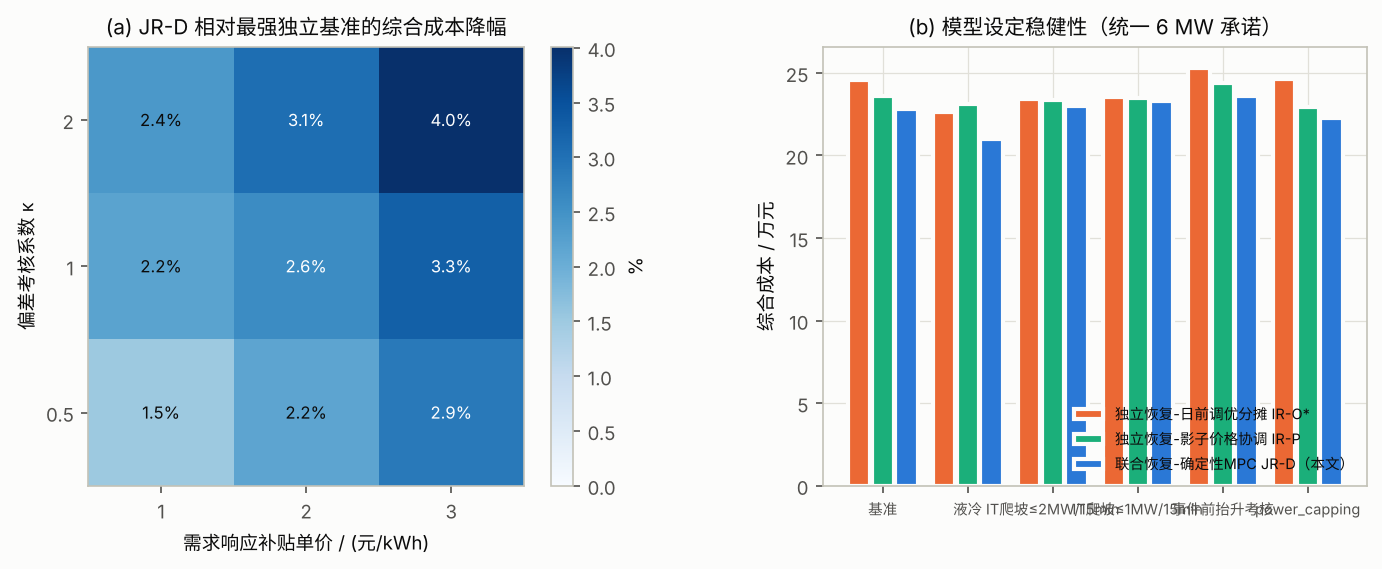
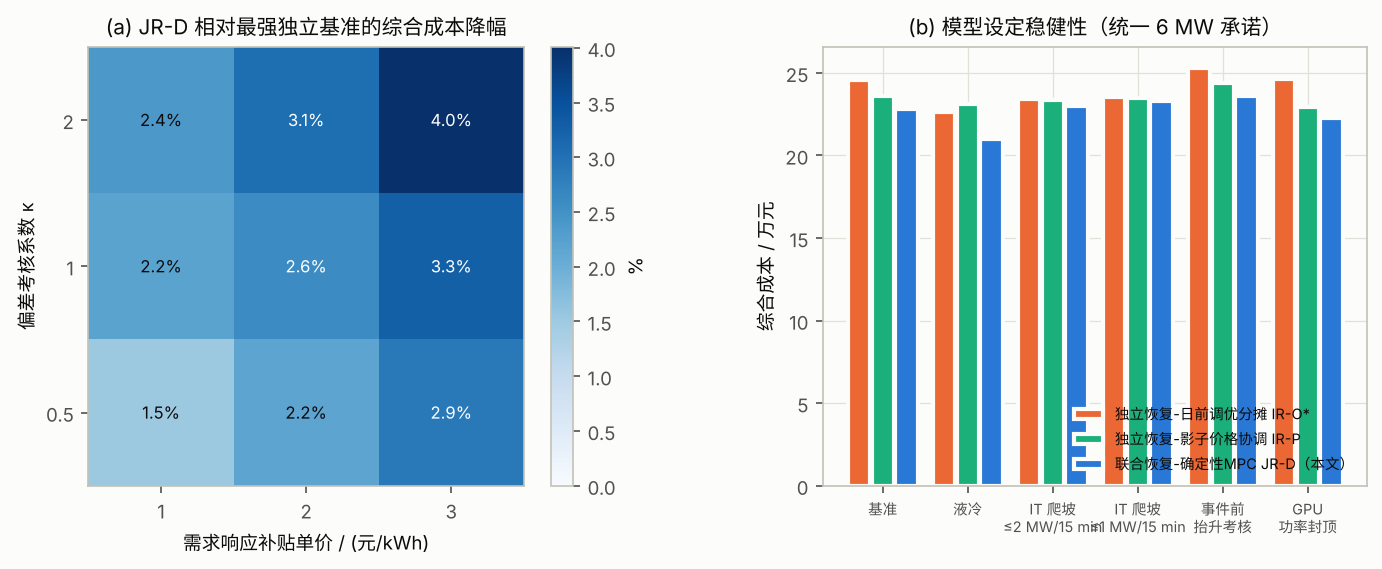
Paper audit: cite every reference and renumber in order of first citation, reference every figure in the text, embed Fig. 1, update Appendix B (6f done) and the contributions; Fig. 13 tick labels
Claude-Session: https://claude.ai/code/session_0173EWkv7nAjgEuhNTshh9Dg

Changed region(s): [[0.7156, 0.8664, 0.9957, 0.9561]]

diff --git a/tools/plot_results.py b/tools/plot_results.py
@@ -122,6 +122,8 @@ ZH2EN = {
     "JR 线性规划": "JR LP", "IR 线性规划": "IR LP", "滞后上界 L = ": "Lag bound L = ", "事件 B 可交付削减 / MW": "Deliverable reduction in event B / MW",
     "需求响应补贴单价 / (元/kWh)": "DR payment rate / (CNY/kWh)", "偏差考核系数 κ": "Shortfall coefficient κ", "基准": "Base", "液冷": "Liquid cooling",
     "IT爬坡≤2MW/15min": "IT ramp ≤ 2 MW/15 min", "IT爬坡≤1MW/15min": "IT ramp ≤ 1 MW/15 min", "事件前抬升考核": "Pre-event load-up charge",
+    "IT 爬坡\n≤2 MW/15 min": "IT ramp\n≤2 MW/15 min", "IT 爬坡\n≤1 MW/15 min": "IT ramp\n≤1 MW/15 min", "事件前\n抬升考核": "Pre-event\nload-up charge",
+    "GPU\n功率封顶": "GPU\npower capping",
     "(b) 模型设定稳健性（统一 6 MW 承诺）": "(b) Robustness to model settings (uniform 6 MW)",
     "电储能能量容量 E / MWh（功率 6 MW）": "Battery energy capacity E / MWh (power 6 MW)",
     "并网裕度 γ（并网上限 = γ × 典型日峰值）": "Connection margin γ (limit = γ × typical-day peak)",
@@ -550,7 +552,8 @@ def fig_robust():
     if r is not None:
         r["cfg"] = r.label.str.split("|").str[0]; r["nm"] = r.label.str.split("|").str[1]
         cfgs = list(dict.fromkeys(r.cfg)); x = np.arange(len(cfgs)); w = 0.26
-        lab = {"base": "基准", "liquid_cooling": "液冷", "it_ramp_2MW": "IT爬坡≤2MW/15min", "it_ramp_1MW": "IT爬坡≤1MW/15min", "preload_charge": "事件前抬升考核"}
+        lab = {"base": "基准", "liquid_cooling": "液冷", "it_ramp_2MW": "IT 爬坡\n≤2 MW/15 min", "it_ramp_1MW": "IT 爬坡\n≤1 MW/15 min",
+               "preload_charge": "事件前\n抬升考核", "power_capping": "GPU\n功率封顶"}
         for i, nm in enumerate(["IR-O*", "IR-P", "JR-D"]):
             v = [float(r[(r.cfg == c) & (r.nm == nm)].net_cost_adj.iloc[0]) / 1e4 for c in cfgs]
             ax[1].bar(x + (i - 1) * (w + 0.02), v, w, color=C[nm], label=NAME[nm], edgecolor="#fcfcfb", linewidth=2)

diff --git a/docs/修订稿草稿/3_第8节_参考文献_附录A.md b/docs/修订稿草稿/3_第8节_参考文献_附录A.md
@@ -2,7 +2,7 @@
 
 * **流体任务模型与刚性作业：** 基准模型把作业视为可任意分割的流体，作业级仿真（6.13 节）表明它对刚性长作业的补算过于乐观。本文加入的刚性补算约束 $y\le a/\Delta t+B/\tau_c$ 是一阶近似：假设暂停在作业间随机分配，没有表示“结束的延迟作业的尾巴”在名义负荷下降时提供的补算，因此流体记账会报告并不存在的逾期，刚性变体只能以作业级结果为准。更精确的做法是在规划中直接调度作业（混合整数），或用剩余运行时间分布构造补算核，留待后续工作。
 * **作业级执行器：** 采用松弛度优先 + 按类目标回填的启发式，不是最优的作业级调度；作业由轨迹的“卡数—时长”分布合成，没有作业间依赖、网络拓扑与通信开销。检查点与重启开销取文献范围内的典型值，并做了“无/基准/慢/仅周期检查点”四种敏感性。
-* **负载轨迹：** PAI 为 2020 年轨迹，Acme 为单一机构 2023 年的大模型开发轨迹（Hu 等，NSDI 2024[36]）。前沿规模的预训练作业可达数千卡，实验 20 只把作业卡数放大到 2–4 倍做了检验。秒级、迭代尺度的功率摆动（Choukse 等[25]）不在 15 min 调度的范围内。
+* **负载轨迹：** PAI 为 2020 年轨迹，Acme 为单一机构 2023 年的大模型开发轨迹（Hu 等，NSDI 2024[39]）。前沿规模的预训练作业可达数千卡，实验 20 只把作业卡数放大到 2–4 倍做了检验。秒级、迭代尺度的功率摆动（Choukse 等[14]）不在 15 min 调度的范围内。
 * **反弹考核：** 江苏细则无此项，本文作为政策参数处理并给出扫描结果；需量电费分析表明现行两部制电价几乎不约束晚间反弹。
 * **事件不确定性：** 只建模了“末次事件是否被调用”；事件时刻与持续时间的不确定性、以及“就绪储备”类产品设计留待后续工作。
 * **场景数较少且确定性选取：** 日内 5 个、日前分布鲁棒 10 个历史联合场景，便于 MATLAB/Octave 结果一致。实验 23 用 K-means 从 280 种组合中选 5–20 个场景、并检验了季节漂移，样本外成本几乎不变（≤0.35%）。模糊集只在这些场景的概率上取（ℓ1 球），没有覆盖场景之外的分布；可改为 Wasserstein 球。
@@ -20,49 +20,49 @@
 [1] IEA. Energy and AI[R]. Paris: International Energy Agency, 2025.
 [2] Shehabi A, Smith S J, Hubbard A, et al. 2024 United States Data Center Energy Usage Report[R]. Berkeley: Lawrence Berkeley National Laboratory, 2024.
 [3] 国家发展改革委, 工业和信息化部, 国家能源局, 国家数据局. 数据中心绿色低碳发展专项行动计划[Z]. 2024.
-[4] 国家发展改革委等. 电力需求侧管理办法（2023 年版）[Z]. 2023.
-[5] 江苏省发展和改革委员会. 江苏省电力需求响应实施细则[Z]. 2024（2024 年 7 月 14 日起施行）.
-[6] Norris T H, Profeta T, Patiño-Echeverri D, Cowie-Haskell A. Rethinking Load Growth: Assessing the Potential for Integration of Large Flexible Loads in US Power Systems[R]. Durham: Nicholas Institute, Duke University, 2025.
-[7] Colangelo P, Coskun A K, Megrue J, et al. Turning AI Data Centers into Grid-Interactive Assets: Results from a Field Demonstration in Phoenix, Arizona[J]. arXiv:2507.00909, 2025.
-[8] Google. Demand response agreements with Indiana Michigan Power and the Tennessee Valley Authority targeting machine-learning workloads[EB/OL]. 2025-08-04.
-[9] Liu Z, Wierman A, Chen Y, Razon B, Chen N. Data center demand response: Avoiding the coincident peak via workload shifting and local generation[J]. Performance Evaluation, 2013, 70(10): 770-791.
-[10] Wierman A, Liu Z, Liu I, Mohsenian-Rad H. Opportunities and challenges for data center demand response[C]. IGCC, 2014.
-[11] Chen M, Gao C, Song M, et al. Internet data centers participating in demand response: A comprehensive review[J]. Renewable and Sustainable Energy Reviews, 2020, 117: 109466.
-[12] Han O, Ding T, Yang M, et al. A novel 4-level joint optimal dispatch for demand response of data centers with district autonomy realization[J]. Applied Energy, 2024, 358: 122590.
-[13] Radovanović A, Koningstein R, Schneider I, et al. Carbon-aware computing for datacenters[J]. IEEE Transactions on Power Systems, 2023.
-[14] 林嘉瑜, 韩俊涛, 王永真, 等. 计及㶲效率的低碳数据中心算力综合能源系统规划及运行优化[J]. 上海交通大学学报, 2025, 59(9): 1327-1337.
-[15] 范宏, 陈舒阳, 罗昊, 等. 考虑冷热电多能互补与负载时空可调特性的数据中心优化运行策略[J]. 南方电网技术, 2026, 20(5): 28-36.
-[16] Weng Q, Xiao W, Yu Y, et al. MLaaS in the Wild: Workload Analysis and Scheduling in Large-Scale Heterogeneous GPU Clusters[C]. USENIX NSDI, 2022.
-[17] Stojkovic J, Zhang C, Goiri Í, Torrellas J, Choukse E. DynamoLLM: Designing LLM Inference Clusters for Performance and Energy Efficiency[C]. IEEE HPCA, 2025.
-[18] Latif I, Newkirk A C, Carbone M R, et al. Empirical Measurements of AI Training Power Demand on a GPU-Accelerated Node[J]. arXiv:2412.08602, 2024.
-[19] Patel P, Choukse E, Zhang C, et al. Characterizing Power Management Opportunities for LLMs in the Cloud[C]. ACM ASPLOS, 2024: 207-222.
-[20] Fan X, Weber W-D, Barroso L A. Power provisioning for a warehouse-sized computer[C]. ISCA, 2007.
-[21] Xu B, Zhao J, Zheng T, Litvinov E, Kirschen D S. Factoring the cycle aging cost of batteries participating in electricity markets[J]. IEEE Transactions on Power Systems, 2018, 33(2): 2248-2259.
-[22] Schildbach G, Fagiano L, Frei C, Morari M. The scenario approach for stochastic model predictive control with bounds on closed-loop constraint violations[J]. Automatica, 2014, 50(12): 3009-3018.
+[4] Norris T H, Profeta T, Patiño-Echeverri D, Cowie-Haskell A. Rethinking Load Growth: Assessing the Potential for Integration of Large Flexible Loads in US Power Systems[R]. Durham: Nicholas Institute, Duke University, 2025.
+[5] Chen Y, Zheng X. To Defer or To Shift? The Role of AI Data Center Flexibility on Grid Interconnection[J]. arXiv:2604.05376, 2026.
+[6] Williams C, Colangelo P, Coskun A K, et al. Power-Flexible AI Data Centers: A New Paradigm for Grid-Responsive Compute[J]. arXiv:2606.25098, 2026.
+[7] Texas Legislature. Senate Bill 6 (89th Legislature): large-load interconnection and curtailment[Z]. 2025.
+[8] 国家发展改革委等. 电力需求侧管理办法（2023 年版）[Z]. 2023.
+[9] 江苏省发展和改革委员会. 江苏省电力需求响应实施细则[Z]. 2024（2024 年 7 月 14 日起施行）.
+[10] Colangelo P, Coskun A K, Megrue J, et al. Turning AI Data Centers into Grid-Interactive Assets: Results from a Field Demonstration in Phoenix, Arizona[J]. arXiv:2507.00909, 2025.
+[11] Acun F, Hankendi C, Levine E, Reynolds H, Bardwick J, Coskun A K. Investigating Power Consumption Flexibility of AI Data Centers for Demand Response Participation[C]. ACM e-Energy, 2026.
+[12] Du B, Fan X, Du E, Chen L, Han J, Hou Q, Zhang N, Kang C. From Tokens to Energy Flexibility: Quantization-Enabled Demand Response for Data Centers with LLM Inference Workloads[J]. arXiv:2606.18851, 2026.
+[13] Li M. Beyond Scalar Flexibility: From Eligible AI Workloads to Dependable Load Relief[J]. arXiv:2609.05406, 2026.
+[14] Choukse E, et al. Power Stabilization for AI Training Datacenters[J]. arXiv:2508.14318, 2025.
+[15] Evans M P, Tindemans S H, Angeli D. Flexibility framework with recovery guarantees for aggregated energy storage devices[J]. IEEE Transactions on Smart Grid, 2022, 13(5): 3519-3531.
+[16] Liu Z, Wierman A, Chen Y, Razon B, Chen N. Data center demand response: Avoiding the coincident peak via workload shifting and local generation[J]. Performance Evaluation, 2013, 70(10): 770-791.
+[17] Wierman A, Liu Z, Liu I, Mohsenian-Rad H. Opportunities and challenges for data center demand response[C]. IGCC, 2014.
+[18] Chen M, Gao C, Song M, et al. Internet data centers participating in demand response: A comprehensive review[J]. Renewable and Sustainable Energy Reviews, 2020, 117: 109466.
+[19] Radovanović A, Koningstein R, Schneider I, et al. Carbon-aware computing for datacenters[J]. IEEE Transactions on Power Systems, 2023.
+[20] Han O, Ding T, Yang M, et al. A novel 4-level joint optimal dispatch for demand response of data centers with district autonomy realization[J]. Applied Energy, 2024, 358: 122590.
+[21] 林嘉瑜, 韩俊涛, 王永真, 等. 计及㶲效率的低碳数据中心算力综合能源系统规划及运行优化[J]. 上海交通大学学报, 2025, 59(9): 1327-1337.
+[22] 范宏, 陈舒阳, 罗昊, 等. 考虑冷热电多能互补与负载时空可调特性的数据中心优化运行策略[J]. 南方电网技术, 2026, 20(5): 28-36.
 [23] Hao H, Sanandaji B M, Poolla K, Vincent T L. Aggregate flexibility of thermostatically controlled loads[J]. IEEE Transactions on Power Systems, 2015, 30(1): 189-198.
-[24] Dobos A P. PVWatts Version 5 Manual[R]. NREL/TP-6A20-62641, 2014.
-[25] Choukse E, et al. Power Stabilization for AI Training Datacenters[J]. arXiv:2508.14318, 2025.
-[26] Texas Legislature. Senate Bill 6 (89th Legislature): large-load interconnection and curtailment[Z]. 2025.
-[27] Wrinch M, Dennis G, El-Fouly T H M, Wong S. Demand response implementation for improved system efficiency in remote communities[C]. IEEE EPEC, 2012.
-[28] Williams C, Colangelo P, Coskun A K, et al. Power-Flexible AI Data Centers: A New Paradigm for Grid-Responsive Compute[J]. arXiv:2606.25098, 2026.
-[29] Acun F, Hankendi C, Levine E, Reynolds H, Bardwick J, Coskun A K. Investigating Power Consumption Flexibility of AI Data Centers for Demand Response Participation[C]. ACM e-Energy, 2026.
-[30] Chen Y, Zheng X. To Defer or To Shift? The Role of AI Data Center Flexibility on Grid Interconnection[J]. arXiv:2604.05376, 2026.
-[31] Du B, Fan X, Du E, Chen L, Han J, Hou Q, Zhang N, Kang C. From Tokens to Energy Flexibility: Quantization-Enabled Demand Response for Data Centers with LLM Inference Workloads[J]. arXiv:2606.18851, 2026.
-[32] Li M. Beyond Scalar Flexibility: From Eligible AI Workloads to Dependable Load Relief[J]. arXiv:2609.05406, 2026.
-[33] Evans M P, Tindemans S H, Angeli D. Flexibility framework with recovery guarantees for aggregated energy storage devices[J]. IEEE Transactions on Smart Grid, 2022, 13(5): 3519-3531.
+[24] Patel P, Choukse E, Zhang C, et al. Characterizing Power Management Opportunities for LLMs in the Cloud[C]. ACM ASPLOS, 2024: 207-222.
+[25] Google. Demand response agreements with Indiana Michigan Power and the Tennessee Valley Authority targeting machine-learning workloads[EB/OL]. 2025-08-04.
+[26] Fan X, Weber W-D, Barroso L A. Power provisioning for a warehouse-sized computer[C]. ISCA, 2007.
+[27] 国家发展改革委, 国家能源局. 关于有序推动绿电直连发展有关事项的通知（发改能源〔2025〕650号）[Z]. 2025-05-21.
+[28] Gaertner E, Rinker J, Sethuraman L, et al. Definition of the IEA 15-Megawatt Offshore Reference Wind Turbine[R]. NREL/TP-5000-75698, 2020.
+[29] Meta. Odense data center: heat recovery to the Fjernvarme Fyn district-heating network[EB/OL]. 2018（设计回收约 100 000 MWh/年，后扩建；Ramboll 设计的热泵站把水加热到 70–75 °C）.
+[30] Huang P, Copertaro B, Zhang X, et al. A review of data centers as prosumers in district energy systems: Renewable energy integration and waste heat reuse for district heating[J]. Applied Energy, 2020, 258: 114109.
+[31] Wahlroos M, Pärssinen M, Rinne S, et al. Future views on waste heat utilization – Case of data centers in Northern Europe[J]. Renewable and Sustainable Energy Reviews, 2018, 82(2): 1749-1764.
+[32] Chao H. Demand response in wholesale electricity markets: the choice of customer baseline[J]. Journal of Regulatory Economics, 2011, 39(1): 68-88.
+[33] Wrinch M, Dennis G, El-Fouly T H M, Wong S. Demand response implementation for improved system efficiency in remote communities[C]. IEEE EPEC, 2012.
 [34] 国家发展改革委办公厅. 关于完善两部制电价用户基本电价执行方式的通知（发改办价格〔2016〕1583号）[Z]. 2016.
 [35] 生态环境部, 国家统计局. 关于发布 2022 年电力二氧化碳排放因子的公告[Z]. 2024.
-[36] Hu Q, Ye Z, Wang Z, et al. Characterization of Large Language Model Development in the Datacenter[C]. USENIX NSDI, 2024.
-[37] Chao H. Demand response in wholesale electricity markets: the choice of customer baseline[J]. Journal of Regulatory Economics, 2011, 39(1): 68-88.
-[38] 国家发展改革委, 国家能源局. 关于有序推动绿电直连发展有关事项的通知（发改能源〔2025〕650号）[Z]. 2025-05-21.
-[39] Gaertner E, Rinker J, Sethuraman L, et al. Definition of the IEA 15-Megawatt Offshore Reference Wind Turbine[R]. NREL/TP-5000-75698, 2020.
-[40] Wan B, Han M, Sheng Y, et al. ByteCheckpoint: A Unified Checkpointing System for Large Foundation Model Development[C]. USENIX NSDI, 2025.
-[41] Wang Z, Jia Z, Zheng S, et al. Gemini: Fast Failure Recovery in Distributed Training with In-Memory Checkpoints[C]. ACM SOSP, 2023.
-[42] Huang P, Copertaro B, Zhang X, et al. A review of data centers as prosumers in district energy systems: Renewable energy integration and waste heat reuse for district heating[J]. Applied Energy, 2020, 258: 114109.
-[43] Wahlroos M, Pärssinen M, Rinne S, et al. Future views on waste heat utilization – Case of data centers in Northern Europe[J]. Renewable and Sustainable Energy Reviews, 2018, 82(2): 1749-1764.
-[44] Meta. Odense data center: heat recovery to the Fjernvarme Fyn district-heating network[EB/OL]. 2018（设计回收约 100 000 MWh/年，后扩建；Ramboll 设计的热泵站把水加热到 70–75 °C）.
+[36] Schildbach G, Fagiano L, Frei C, Morari M. The scenario approach for stochastic model predictive control with bounds on closed-loop constraint violations[J]. Automatica, 2014, 50(12): 3009-3018.
+[37] Weng Q, Xiao W, Yu Y, et al. MLaaS in the Wild: Workload Analysis and Scheduling in Large-Scale Heterogeneous GPU Clusters[C]. USENIX NSDI, 2022.
+[38] Stojkovic J, Zhang C, Goiri Í, Torrellas J, Choukse E. DynamoLLM: Designing LLM Inference Clusters for Performance and Energy Efficiency[C]. IEEE HPCA, 2025.
+[39] Hu Q, Ye Z, Wang Z, et al. Characterization of Large Language Model Development in the Datacenter[C]. USENIX NSDI, 2024.
+[40] Latif I, Newkirk A C, Carbone M R, et al. Empirical Measurements of AI Training Power Demand on a GPU-Accelerated Node[J]. arXiv:2412.08602, 2024.
+[41] Xu B, Zhao J, Zheng T, Litvinov E, Kirschen D S. Factoring the cycle aging cost of batteries participating in electricity markets[J]. IEEE Transactions on Power Systems, 2018, 33(2): 2248-2259.
+[42] Dobos A P. PVWatts Version 5 Manual[R]. NREL/TP-6A20-62641, 2014.
+[43] Wan B, Han M, Sheng Y, et al. ByteCheckpoint: A Unified Checkpointing System for Large Foundation Model Development[C]. USENIX NSDI, 2025.
+[44] Wang Z, Jia Z, Zheng S, et al. Gemini: Fast Failure Recovery in Distributed Training with In-Memory Checkpoints[C]. ACM SOSP, 2023.
 
-> 说明：[13] 的卷期页码、[8][26] 的正式条目、[29] 的页码、[35] 的文号请投稿前在出版社/官网再核对。论文中可补充国内期刊近三年关于数据中心需求响应、综合能源系统滚动优化的文献。
+> 说明：参考文献按首次引用顺序编号。[19] 的卷期页码、[7][25] 的正式条目、[11] 的页码、[35] 的文号请投稿前在出版社/官网再核对。论文中可补充国内期刊近三年关于数据中心需求响应、综合能源系统滚动优化的文献。
 
 ## 附录 A 复现方法
 

diff --git a/docs/修订稿草稿/2_第6-7节与摘要.md b/docs/修订稿草稿/2_第6-7节与摘要.md
@@ -6,7 +6,7 @@
 
 ### 6.1 机理与理论验证（实验 1、实验 11）
 
-设置两个事件：前序事件 A 自 17:00 开始，后续事件 B 在间隔 τ 后开始；比较 B 的最大可维持削减 $\Gamma_B$ 与其单事件能力 $\Gamma_B^0$ 之比。
+设置两个事件：前序事件 A 自 17:00 开始，后续事件 B 在间隔 τ 后开始；比较 B 的最大可维持削减 $\Gamma_B$ 与其单事件能力 $\Gamma_B^0$ 之比（图 2）。
 
 ![机理](../matlab/figures/fig02_mechanism.png)
 
@@ -150,7 +150,7 @@
 
 （成本单位：万元/日。）
 
-- 在“≥95% 运行日三次全部有效”的要求下，IR-O\* 只能承诺 6 MW，IR-P 在任何承诺水平都达不到，JR-D 可承诺 8 MW（+33%）。
+- 在“≥95% 运行日三次全部有效”的要求下（图 11），IR-O\* 只能承诺 6 MW，IR-P 在任何承诺水平都达不到，JR-D 可承诺 8 MW（+33%）。
 - 各自的最优承诺下，JR-D（7 MW，18.89 万元/日）比 IR-O\*（6 MW，19.70 万元/日）低 4.1%。
 
 ![可靠容量](../matlab/figures/fig11_capacity.png)
@@ -239,7 +239,7 @@
 
 ### 6.6 影子价格：恢复通道的稀缺性（实验 5）
 
-在完美信息、统一 6 MW 承诺下，固定最优 0–1 变量后重解 LP 取对偶（`exp5_shadow*.csv`）。
+在完美信息、统一 6 MW 承诺下，固定最优 0–1 变量后重解 LP 取对偶（`exp5_shadow*.csv`），时序见图 8。
 
 **表 影子价格（元/MWh；积压为元/GPU·h）**
 
@@ -391,7 +391,7 @@
 3. **事件前抬升考核不改变调度。** 所有策略的成本都多出同样的考核额。抬升来自为事件保留储能，而不是操纵基线（第 3.4 节）。
 4. **GPU 功率封顶是有效的附加手段。** 封顶每降 1 单位功率只留下 0.4 单位欠账，JR-D 的成本因此再降 2.4%，最大反弹从 5.77 MW 降到 4.02 MW。
 
-**多能耦合与政策约束（实验 17，$c^{\rm rb}$=3，完美信息，C=6 MW 除另注）**
+**多能耦合与政策约束（实验 17，$c^{\rm rb}$=3，完美信息，C=6 MW 除另注；图 21）**
 
 1. **机房热惯性（第三类恢复状态）。**
    - 允许机房在设定值上下浮动（+3/−2 K）后，三种策略都把热惯性用满（最高升温 3.0 K），日均成本都降 0.86–0.88 万元（JR：22.80 → 21.94）。闭环 26 个运行日也是如此：JR-D 降 3.8%，IR-P 降 4.3%。
@@ -439,9 +439,10 @@
 
 （可靠可交付容量为完美信息下 ≥99% 兑现且三次全有效的最大统一承诺；闭环为 20 个运行日、统一 6 MW，逐日配对 p 均为 4×10⁻⁶。）
 
-- 三种气候下，JR-D 都每天全部有效，成本都低约 2.6%–2.9%。
+- 三种气候下，JR-D 都每天全部有效，成本都低约 2.6%–2.9%（图 20）。
 - 冬季与凉爽气候中，冷负荷小、COP 高，与制冷相关的可调电量减少，JR 的可靠容量降为 7 MW。冬季 IR-P 也能达到 7 MW。
 - 联合恢复的价值随“恢复通道是否紧张”而变化，这与定理 1 一致：炎热夏季的晚高峰最需要它。
+- 驱动因素的相关性（图 17）说明了晚高峰为何紧张：常态运行中储能在峰价时段放电，压低了 17–22 h 的基线；此时光伏已退出，削减只能更多依靠算力推迟与储能额外放电。
 
 ![泛化](../matlab/figures/fig20_generalization.png)
 
@@ -540,7 +541,7 @@
 2. **风电省下的电费远多于损失的需求响应收入。** JR-D 的日均成本由 22.5 万降到 10.8 万元（20 MW）。
 3. **联合恢复的优势在风电下扩大。** 相对 IR-P 降低 5.9%–6.6%（无风电时 2.5%）。风电预测误差使事件期间的净负荷偏离计划，所有策略的有效率都下降，独立恢复下降更多：三次全有效的天数，IR-P 为 46%–73%，JR-D 为 77%–92%。联合恢复跨事件统筹算力积压与储能，留给纠偏的余量更大。
 4. **策略差异来自风小、预测有误差的日子。** 风大的案例日（10 MW 时 122 MWh，20 MW 时 244 MWh）承诺小、容易兑现，各策略成本相差不到 1%。
-5. **政策含义。** 按关口表核定基线，会把表后风电的波动计为“响应”或“反响应”。绿电直连项目若单独计量发电、按扣除风电后的用户负荷核定基线，可以保留数据中心的调节能力；这需要在政策层面明确。
+5. **政策含义。** 按关口表核定基线，会把表后风电的波动计为“响应”或“反响应”（基线取法的一般讨论见 [32]）。绿电直连项目若单独计量发电、按扣除风电后的用户负荷核定基线，可以保留数据中心的调节能力；这需要在政策层面明确。
 
 ![绿电直连](../matlab/figures/fig26_wind.png)
 
@@ -658,7 +659,7 @@
    - 结论在五种分时电价形态（−2.1% 至 −2.9%）、苏州冬季与贵安夏季（−2.6% 至 −2.8%，每天全部有效）、液冷（−7.4%）、GPU 功率封顶（−2.9%）与机房热惯性（闭环 −2.2%）下成立。
    - IT 爬坡限制压缩联合恢复的空间（1 MW/15 min 时只剩 −0.8%）。
 8. **作业级验证与大模型负荷（6.13 节）。**
-   - 流体任务模型允许积压以任意并行度补算，对整组运行的刚性长作业过于乐观：按它做的计划在作业级执行时大量失效（PAI 负荷下任何策略三次全有效的天数 ≤8%），成本被低估 11%–39%。
+   - 流体任务模型允许积压以任意并行度补算，对整组运行的刚性长作业过于乐观：按它做的计划在作业级执行时大量失效（PAI 负荷下任何策略三次全有效的天数 ≤8%），成本被低估 11%–38%（Acme 负荷为 6%–39%）。
    - 加入一阶刚性补算约束后计划可以执行：JR-D 三次全有效的天数在 Acme 大模型开发负荷下为 98%，在 PAI 负荷下为 86.5%（最强独立基准 46%–87%）；作业级成本仍比最强独立基准低 3.0%–5.0%（p≤10⁻⁹）。
    - 暂停/重启开销使日成本增加 2%–4%（慢检查点时约 3 倍）；整组粒度的影响 ≤1.4%；事件开始时 IT 功率的 1 min 阶跃为 3–4 MW。
 9. **扩展（6.14–6.17 节）。**

diff --git a/docs/修订稿草稿/4_附录B_修改对照.md b/docs/修订稿草稿/4_附录B_修改对照.md
@@ -14,4 +14,5 @@
 | 4c. 价格敏感性 | 补贴单价 1/2/3 元/kWh × 偏差系数 0.5/1/2 | 6.8 节；实验 9 |
 | 5. 理论 | 引理 1（时限约束的精确性）；命题 1 完整证明及多状态推广；定理 1 闭式解（最小恢复间隔差、能力差、无价值条件），68 个工况与 LP 偏差 ≤1×10⁻⁵ MW；命题 2 单一通道价格，KKT 残差 2×10⁻¹²；命题 3 分布鲁棒承诺的精确 MILP 重构 | `理论推导.md`；6.1、6.5、6.6 节 |
 | 6. 真实性与文献 | 液冷、IT 功率爬坡（软约束）、GPU 功率封顶、事件前抬升考核四类敏感性；机房热惯性、PUE 与绿电约束、联络线爬坡；分时电价形态、季节与气候泛化；碳排放；补充 2025–2026 文献并说明与 Evans 等（恢复保证）的区别 | 6.10、6.11 节；1.1–1.2 节 |
-| 6f. 大模型轨迹与作业级验证 | **未完成**：需下载 Acme 轨迹并建立作业级仿真器，列入后续工作 | 第 8 节 |
+| 6f. 大模型轨迹与作业级验证 | 新增 Acme 大模型开发轨迹（Hu 等[39]，长作业占 80% 的 GPU·h）；建立作业级仿真器（整组刚性作业、检查点/重启开销、最短暂停），每次闭环运行都在作业级重放并重新结算。发现流体模型对刚性长作业过于乐观，加入刚性补算约束 $y\le a/\Delta t+B/\tau_c$ 后计划可执行（JR-D 三次全有效：Acme 98%、PAI 86.5%），联合恢复在作业级仍比最强独立基准低 3.0%–5.0%；另做作业组合、暂停开销与整组粒度的敏感性 | 3.1、5.4、6.13 节；理论推导第 1 节末；实验 19、20；图 22、23 |
+| （审稿意见之外的扩展） | 绿电直连海上风电与 650 号文曲线；暂停/恢复开销与多档功率封顶；K-means 场景与季节漂移；冬季余热回收供热（蓄热罐为第四类恢复状态） | 6.14–6.17 节；实验 21–24；图 25–27 |
